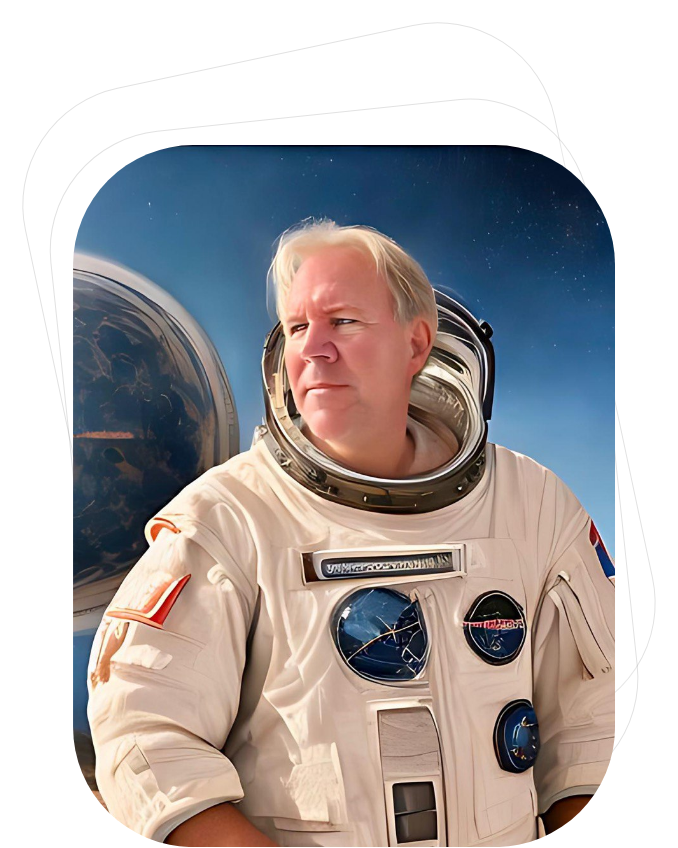
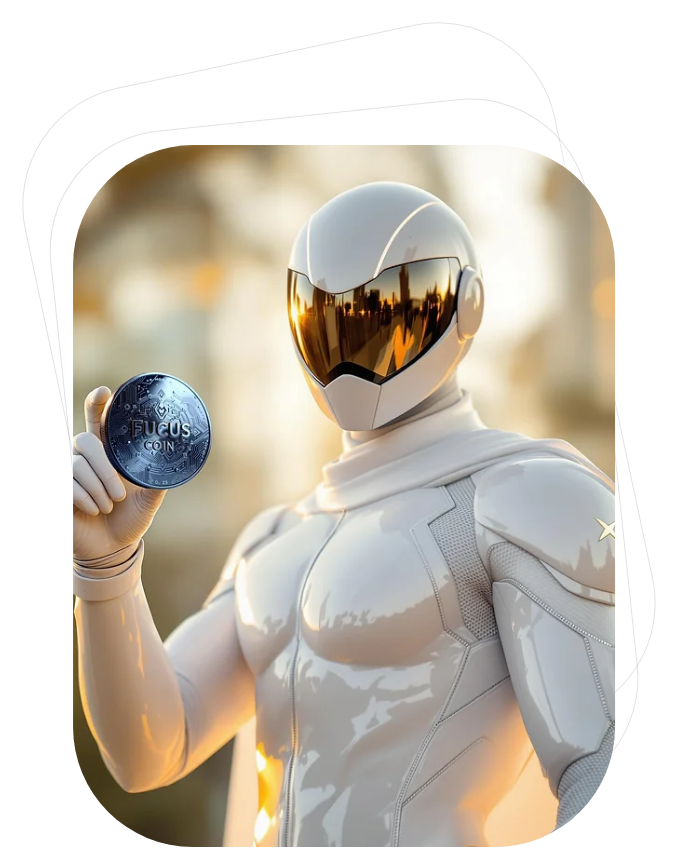
Fix:change images and text

diff --git a/templates/pages/top/index.html b/templates/pages/top/index.html
@@ -10,13 +10,12 @@
     <section class="p-fv" id="home">
         <div class="p-fv__container wow fadeInUp">
             <div class="p-fv__content">
-                <h1 class="p-fv__content--ttl">Robusto Societe<br>
-                    Helvetia Capitale <br>Internationale</h1>
-                <a href="http://RSHCINT.com" class="p-fv__content--url">RSHCINT.com</a>
+                <h1 class="p-fv__content--ttl">Robustus Fucus<br/>
+                    volo fugere<br/>
+                    voles nobiscum</h1>
+                <a href="http://fucus-coin.com" class="p-fv__content--url">fucus-coin.com</a>
                 <p class="p-fv__content--subttl">
-                    We are in the process of acquiring our own full banking license, so we will comply with the law
-                    and create something completely new with huge potential.
-                    Reserve and buy your RSHCI coins now.
+                    We are not simply participating in this business. We are here to set the pace and lead the market.
                 </p>
                 <a href="#contact" class="p-fv__content--link">
                     <span>Apply Here</span>
@@ -55,10 +54,7 @@
                 <h1 class="p-about__content--ttl">
                     Meet the<br>Visionaries Behind<br>RSHCI Foundation
                 </h1>
-                <p class="p-about__content--subttl">RSHCI COIN is a central crypto currency limited to 1.000.000.000
-                    - 1 billion coins. Its value can only increase and cannot be manipulated downward through sales.
-                    The coin owners sell their coins on the open market and not back to us. We will sell the RSHCI
-                    through our own exchange and operate independently of all other‘s.</p>
+                <p class="p-about__content--subttl">Experience the ultimate dream of flight with passenger drones-revolutionizing the way we soar through the skies! Reach new heights and embrace the thrill of aerial exploration like never before. Elevate your journey with passenger drones and make your dream to fly a reality.</p>
                 <a href="#contact" class="p-about__content--link">
                     <span>Read More</span>
                 </a>
@@ -247,7 +243,7 @@
                     <a class="__form-info_email" href="mailto:rshcint@gmail.com">Mail&nbsp;:&nbsp;rshcint@gmail.com</a>
                     <a href="https://t.me/RSHCINT" class="__form-info_email">Telegram&nbsp;:&nbsp;@RSHCINT</a>
                     <figure class="__form-info_img">
-                        <img src="{% static '/img/rshci-coin.png'%}" alt="">
+                        <img src="{% static '/img/rshci-logo(top).png'%}" alt="">
                     </figure>
                 </div>
                 <div class="__form-items">

diff --git a/templates/layout/base.html b/templates/layout/base.html
@@ -10,7 +10,7 @@
   <link rel="stylesheet" href="{% static '/css/hompage/wow.css'%}">
   <script src="https://cdn.jsdelivr.net/particles.js/2.0.0/particles.min.js"></script>
 
-  <title>RSHCI Coin</title>
+  <title>Fucus coin</title>
 </head>
 
 <body>

diff --git a/homepage/migrations/0001_initial.py b/homepage/migrations/0001_initial.py
@@ -1,0 +1,78 @@
+# Generated by Django 5.0.4 on 2024-11-14 02:32
+
+import django.contrib.auth.models
+import django.contrib.auth.validators
+import django.utils.timezone
+from django.db import migrations, models
+
+
+class Migration(migrations.Migration):
+
+    initial = True
+
+    dependencies = [
+        ('auth', '0012_alter_user_first_name_max_length'),
+    ]
+
+    operations = [
+        migrations.CreateModel(
+            name='CoinPrice',
+            fields=[
+                ('id', models.BigAutoField(auto_created=True, primary_key=True, serialize=False, verbose_name='ID')),
+                ('coinprice', models.DecimalField(decimal_places=2, default=5.6, max_digits=10)),
+            ],
+            options={
+                'verbose_name': 'Coin Price',
+                'verbose_name_plural': 'Coin Price',
+            },
+        ),
+        migrations.CreateModel(
+            name='Email',
+            fields=[
+                ('id', models.BigAutoField(auto_created=True, primary_key=True, serialize=False, verbose_name='ID')),
+                ('when', models.DateTimeField(auto_now_add=True)),
+                ('to', models.EmailField(max_length=254)),
+                ('subject', models.CharField(max_length=128)),
+                ('body', models.TextField(max_length=1024)),
+                ('ok', models.BooleanField(default=True)),
+                ('updated_at', models.DateTimeField(auto_now=True)),
+                ('created_at', models.DateTimeField(auto_now_add=True)),
+            ],
+            options={
+                'verbose_name': 'Email',
+                'verbose_name_plural': 'Emails',
+            },
+        ),
+        migrations.CreateModel(
+            name='User',
+            fields=[
+                ('id', models.BigAutoField(auto_created=True, primary_key=True, serialize=False, verbose_name='ID')),
+                ('password', models.CharField(max_length=128, verbose_name='password')),
+                ('last_login', models.DateTimeField(blank=True, null=True, verbose_name='last login')),
+                ('is_superuser', models.BooleanField(default=False, help_text='Designates that this user has all permissions without explicitly assigning them.', verbose_name='superuser status')),
+                ('username', models.CharField(error_messages={'unique': 'A user with that username already exists.'}, help_text='Required. 150 characters or fewer. Letters, digits and @/./+/-/_ only.', max_length=150, unique=True, validators=[django.contrib.auth.validators.UnicodeUsernameValidator()], verbose_name='username')),
+                ('first_name', models.CharField(blank=True, max_length=150, verbose_name='first name')),
+                ('last_name', models.CharField(blank=True, max_length=150, verbose_name='last name')),
+                ('email', models.EmailField(blank=True, max_length=254, verbose_name='email address')),
+                ('is_staff', models.BooleanField(default=False, help_text='Designates whether the user can log into this admin site.', verbose_name='staff status')),
+                ('is_active', models.BooleanField(default=True, help_text='Designates whether this user should be treated as active. Unselect this instead of deleting accounts.', verbose_name='active')),
+                ('date_joined', models.DateTimeField(default=django.utils.timezone.now, verbose_name='date joined')),
+                ('name', models.CharField(default='', max_length=100)),
+                ('secretcode', models.CharField(default='', max_length=100)),
+                ('coins', models.DecimalField(decimal_places=2, default=0, max_digits=10)),
+                ('estate', models.DecimalField(decimal_places=2, default=0, max_digits=10)),
+                ('updated_at', models.DateTimeField(auto_now=True)),
+                ('created_at', models.DateTimeField(auto_now_add=True)),
+                ('groups', models.ManyToManyField(blank=True, help_text='The groups this user belongs to. A user will get all permissions granted to each of their groups.', related_name='user_set', related_query_name='user', to='auth.group', verbose_name='groups')),
+                ('user_permissions', models.ManyToManyField(blank=True, help_text='Specific permissions for this user.', related_name='user_set', related_query_name='user', to='auth.permission', verbose_name='user permissions')),
+            ],
+            options={
+                'verbose_name': 'user',
+                'verbose_name_plural': 'users',
+                'abstract': False,
+            },
+            managers=[
+                ('objects', django.contrib.auth.models.UserManager()),
+            ],
+        ),
+    ]

diff --git a/homepage/management/commands/seed.py b/homepage/management/commands/seed.py
@@ -7,23 +7,23 @@ from homepage.models import *
 class Command(BaseCommand):
 
     def handle(self, *args, **options):
-        self.init_superuser()
+        # self.init_superuser()
         self.init_coin()
         
 
 
-    def init_superuser(self):
-        try:
-            User.objects.all().delete()
+    # def init_superuser(self):
+    #     try:
+    #         User.objects.all().delete()
 
-            user = User.objects.create_superuser("rshci_wallet", "support@rshci.com", "password")
+    #         user = User.objects.create_superuser("rshci_wallet", "support@rshci.com", "password")
            
-            User.objects.create_superuser("yoshida", "yoshidadaisuke0420@gmail.com", "password")
+    #         User.objects.create_superuser("yoshida", "yoshidadaisuke0420@gmail.com", "password")
             
             
-            print("Superuser created successfully.")
-        except Exception as error:
-            print(str(error))
+    #         print("Superuser created successfully.")
+    #     except Exception as error:
+    #         print(str(error))
     def init_coin(self):
         try:
             CoinPrice.objects.all().delete()
